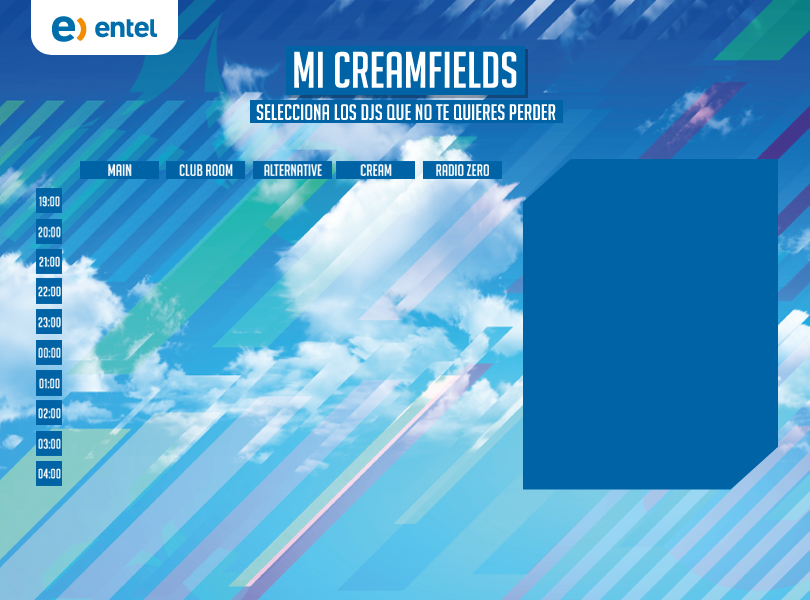
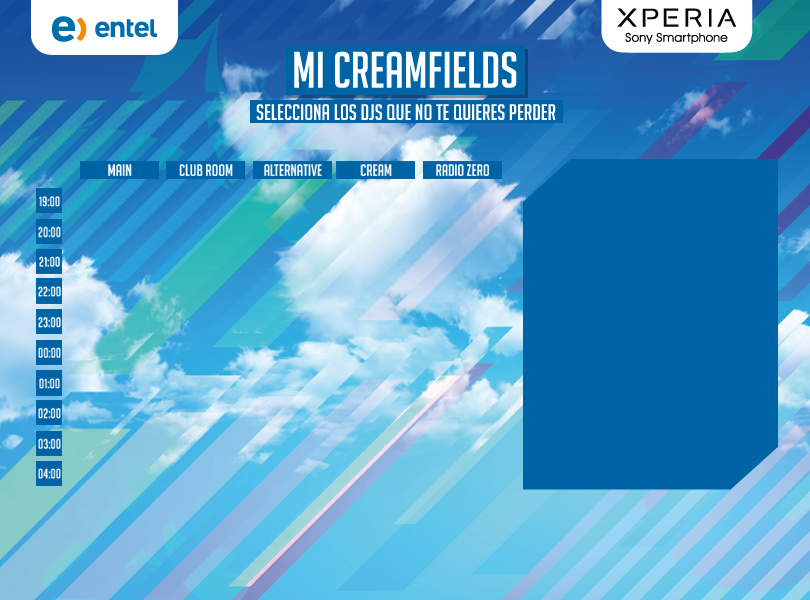
Correcciones

Changed region(s): [[0.7407, 0.0, 0.9568, 0.09]]

diff --git a/creamfields/css/style.css b/creamfields/css/style.css
@@ -267,7 +267,7 @@ font-family:creamfields;
   margin-top: -359px;
 }
 
-#BIO-james
+#BIO-steve
 {
 	font-size: medium;
 color: white;
@@ -332,7 +332,7 @@ font-family:creamfields;
   margin-top: -359px;
 }
 
-#BIO-steve
+#BIO-james
 {
 font-size: medium;
 color: white;
@@ -343,7 +343,7 @@ font-family:creamfields;
   margin-top: -359px;
 }
 
-#BIO-pia
+#BIO-felipe
 {
 font-size: medium;
 color: white;
@@ -365,7 +365,7 @@ font-family:creamfields;
   margin-top: -359px;
 }
 
-#BIO-felipe
+#BIO-pia
 {
 font-size: medium;
 color: white;
@@ -2663,4 +2663,8 @@ table.graph td img {
 .botones2 #continuar {
   float: right;
   margin-right: 20px;
+}
+
+#xperia-3 {
+  position: absolute;
 }

diff --git a/creamfields/paso_1_Creamfields2.php b/creamfields/paso_1_Creamfields2.php
@@ -130,7 +130,7 @@
  		</div>
 
 		<div id="clubroom">
-  			<div id="felipe"><a href="javascript:toggleLayer('BIO-felipe');" ><img class="bottom" src="images/boxes/felipevenegas.png" /><img class="top" src="images/boxes-2/felipe.png" /></a></div>
+  		<div id="pia"><a href="javascript:toggleLayer('BIO-pia');" ><img class="bottom" src="images/boxes/pia.png" /><img class="top" src="images/boxes-2/pia.png" /></a></div>
 			<div id="butano"><a href="javascript:toggleLayer('BIO-butano');"> <img class="bottom" src="images/boxes/butano.png" /><img class="top" src="images/boxes-2/butano.png" /></a></div>
 			<div id="mathias"><a href="javascript:toggleLayer('BIO-mathias');" ><img class="bottom" src="images/boxes/mathias.png" /><img class="top" src="images/boxes-2/mathias.png" /></a></div>
 			<div id="solomun"><a href="javascript:toggleLayer('BIO-solomun');" ><img class="bottom" src="images/boxes/solomun.png" /><img class="top" src="images/boxes-2/solomun.png" /></a></div>
@@ -148,12 +148,12 @@
  		</div>
 
 		<div id="cream">
-  			<div id="pia"><a href="javascript:toggleLayer('BIO-pia');" ><img class="bottom" src="images/boxes/pia.png" /><img class="top" src="images/boxes-2/pia.png" /></a></div>
+      <div id="felipe"><a href="javascript:toggleLayer('BIO-felipe');" ><img class="bottom" src="images/boxes/felipevenegas.png" /><img class="top" src="images/boxes-2/felipe.png" /></a></div>
 			<div id="tweeter"><a href="javascript:toggleLayer('BIO-tweeter');" ><img class="bottom" src="images/boxes/tweeter.png" /><img class="top" src="images/boxes-2/tweeter.png" /></a></div>
 			<div id="guti"><a href="javascript:toggleLayer('BIO-guti');" ><img class="bottom" src="images/boxes/guti.png" /><img class="top" src="images/boxes-2/guti.png" /></a></div>
 			<div id="reboot"><a href="javascript:toggleLayer('BIO-reboot');" ><img class="bottom" src="images/boxes/reboot.png" /><img class="top" src="images/boxes-2/reboot.png" /></a></div>
-			<div id="steve"><a href="javascript:toggleLayer('BIO-steve');" ><img class="bottom" src="images/boxes/steve.png" /><img class="top" src="images/boxes-2/steve.png" /></a></div>
 			<div id="james"><a href="javascript:toggleLayer('BIO-james');" ><img class="bottom" src="images/boxes/james.png" /><img class="top" src="images/boxes-2/james.png" /></a></div>
+      <div id="steve"><a href="javascript:toggleLayer('BIO-steve');" ><img class="bottom" src="images/boxes/steve.png" /><img class="top" src="images/boxes-2/steve.png" /></a></div>
  		</div>
 			
 		<div id="zero">

diff --git a/creamfields/guardar_datos.php b/creamfields/guardar_datos.php
@@ -31,7 +31,7 @@
                 $final[$key]['y'] = 334;
                 break;
             /* Club Room */
-            case 'felipe':
+            case 'pia':
                 $final[$key]['x'] = 155;
                 $final[$key]['y'] = 38;
                 break;
@@ -81,7 +81,7 @@
                 $final[$key]['y'] = 300;
                 break;
             /* Cream */
-            case 'pia':
+            case 'felipe':
                 $final[$key]['x'] = 338;
                 $final[$key]['y'] = 38;
                 break;
@@ -97,11 +97,11 @@
                 $final[$key]['x'] = 338;
                 $final[$key]['y'] = 169;
                 break;
-            case 'steve':
+            case 'james':
                 $final[$key]['x'] = 338;
                 $final[$key]['y'] = 235;
                 break;
-            case 'james':
+            case 'steve':
                 $final[$key]['x'] = 338;
                 $final[$key]['y'] = 300;
                 break;
